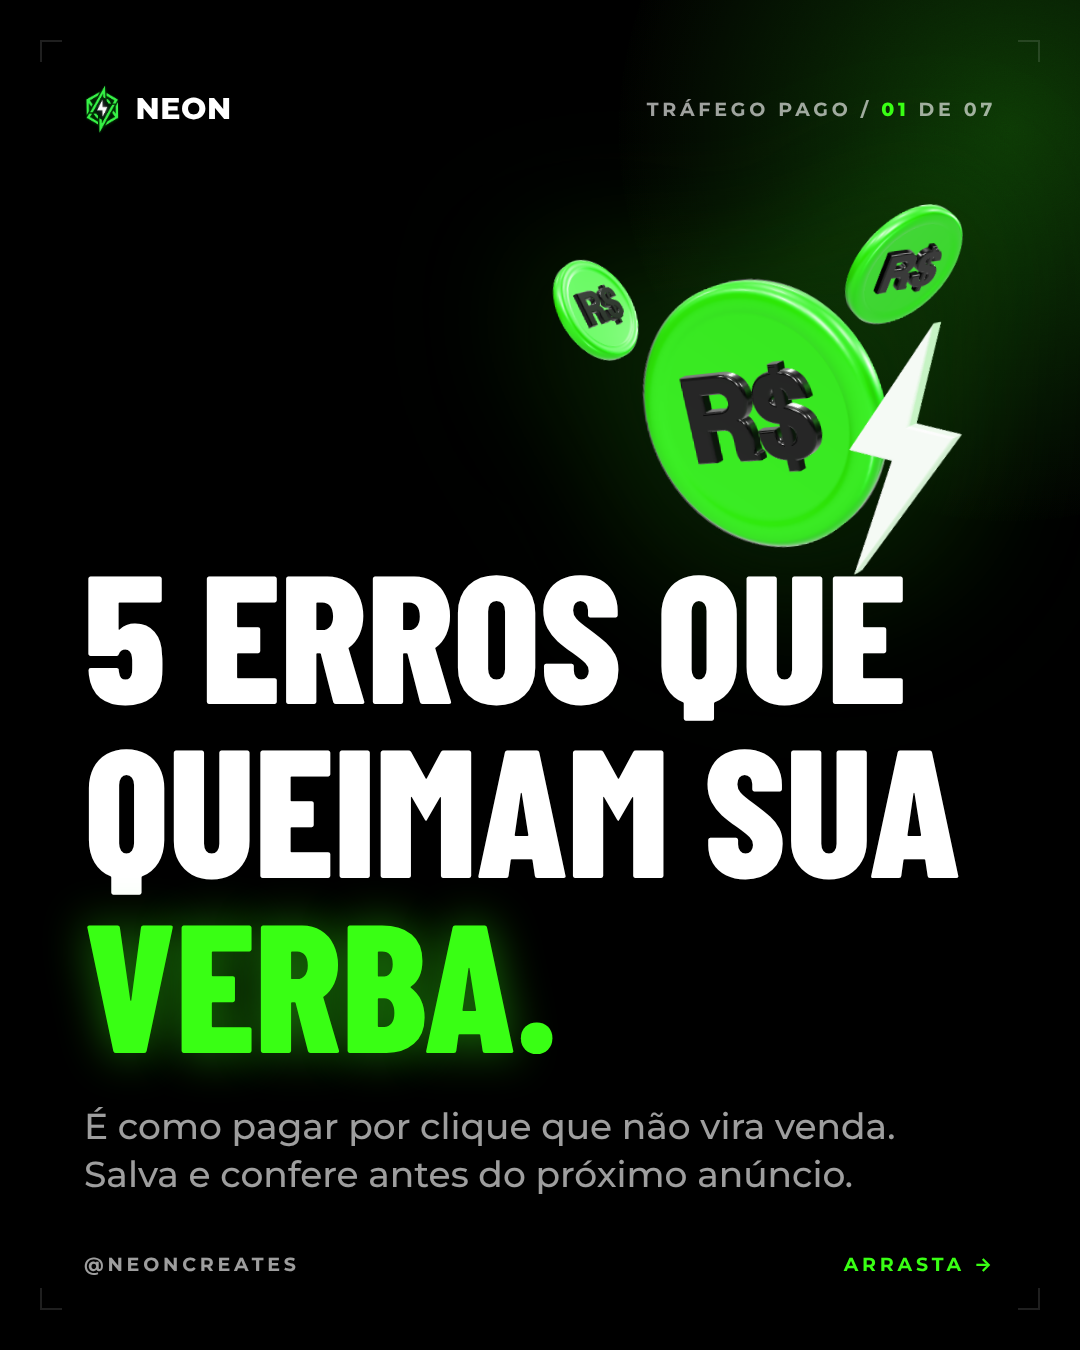
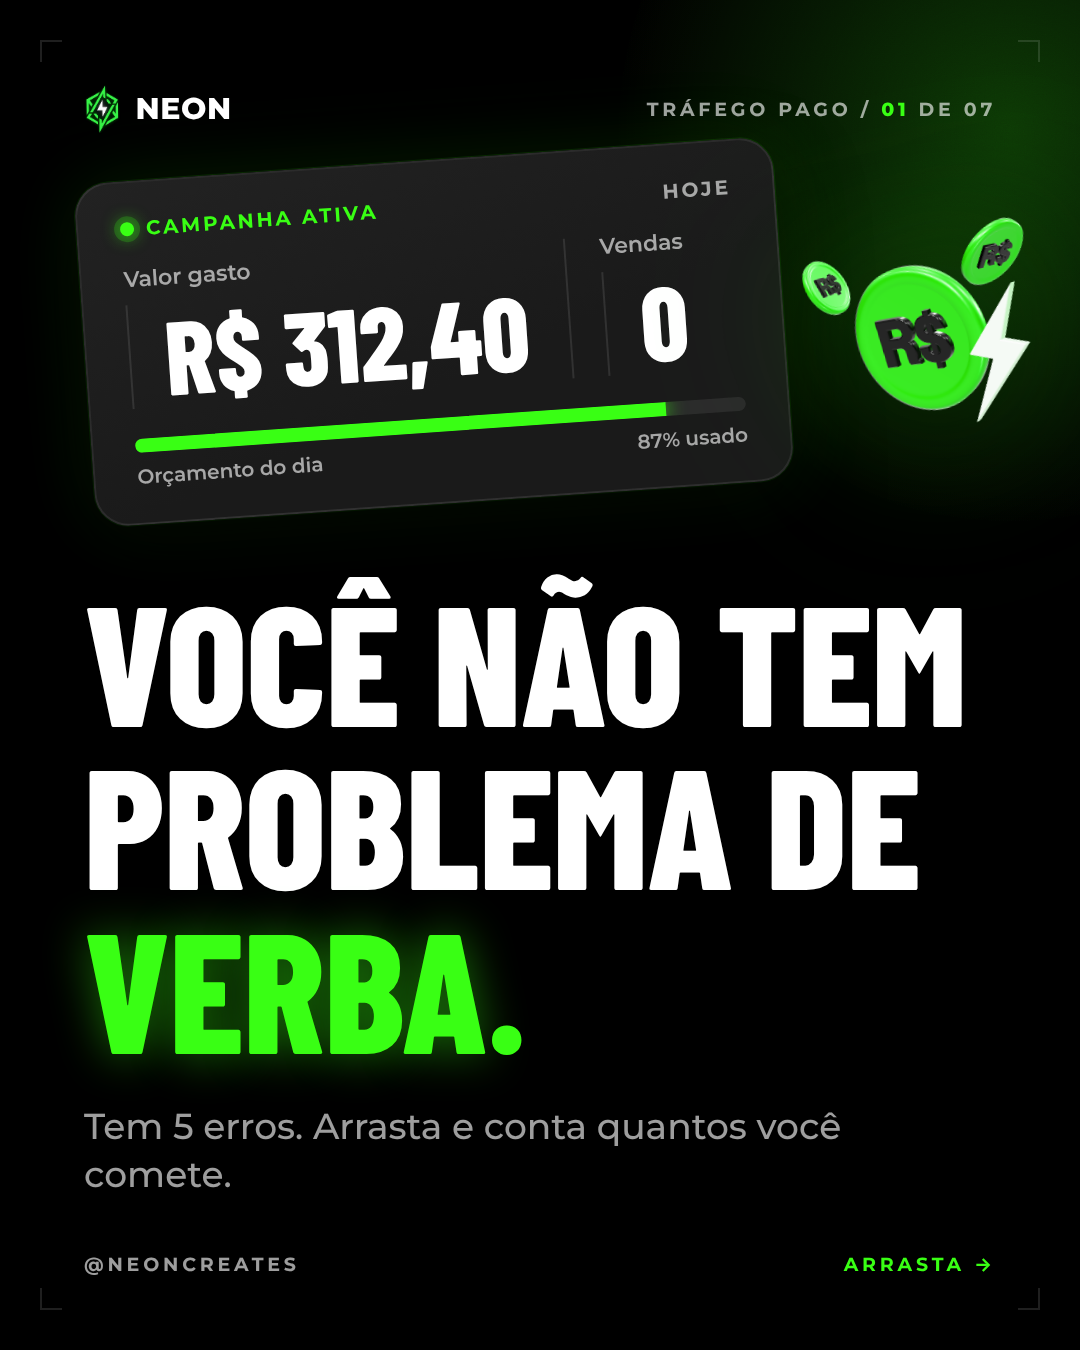
feat: capa do carrossel 5 erros com gancho e 3 variações
- capa A: contradição + painel de campanha ativa gastando sem vender
- capa B: chamada direta para quem usa o botão Impulsionar
- capa C: perda (clique que nunca compra)
- render.mjs aceita query: node render.mjs "erros?capa=b"

Claude-Session: https://claude.ai/code/session_01ANu3F8RZ7YsErKxxQ5P8MP

diff --git a/instagram/erros.html b/instagram/erros.html
@@ -6,8 +6,30 @@
 <link rel="stylesheet" href="neon.css">
 <style>
   /* capa */
-  .cover .obj3d { width: 660px; right: -30px; top: 70px; transform: rotate(-6deg); }
-  .cover h1 { font-size: 182px; }
+  .cover h1 { font-size: 170px; }
+  .cover .obj3d.coin { width: 470px; right: -10px; top: 40px; transform: rotate(-6deg); }
+
+  /* capa A: painel de anúncio queimando dinheiro */
+  .ads { position: absolute; z-index: 1; left: 84px; top: 160px; width: 700px; padding: 36px 42px 36px; border-radius: 34px;
+    background: linear-gradient(160deg, #222 0%, var(--gray) 60%); border: 2px solid rgba(255, 255, 255, .08);
+    box-shadow: 0 40px 80px rgba(0, 0, 0, .6), 0 0 0 1px rgba(57, 255, 20, .12), 0 0 80px rgba(57, 255, 20, .12); transform: rotate(-4deg); }
+  .ads .top { display: flex; justify-content: space-between; font: 700 20px/1 var(--label); letter-spacing: .14em; text-transform: uppercase; color: var(--muted); }
+  .ads .live { display: flex; align-items: center; gap: 12px; color: var(--neon); }
+  .ads .live::before { content: ""; width: 14px; height: 14px; border-radius: 50%; background: var(--neon); box-shadow: 0 0 0 6px rgba(57, 255, 20, .2), 0 0 18px var(--neon); }
+  .ads .cols { display: grid; grid-template-columns: auto 1fr; gap: 0; margin-top: 30px; }
+  .ads .cols div:first-child { padding-right: 40px; }
+  .ads .cols div + div { border-left: 2px solid rgba(255, 255, 255, .1); padding-left: 34px; }
+  .ads .k { font: 600 22px/1 var(--body); color: var(--muted); margin-bottom: 14px; }
+  .ads .v { font: 800 104px/1 var(--display); white-space: nowrap; }
+  .ads .bar { margin-top: 30px; height: 14px; border-radius: 99px; background: rgba(255, 255, 255, .08); overflow: hidden; }
+  .ads .bar i { display: block; width: 87%; height: 100%; background: var(--neon); box-shadow: 0 0 20px var(--neon); }
+  .ads .foot { display: flex; justify-content: space-between; margin-top: 14px; font: 600 20px/1 var(--body); color: var(--muted); }
+  .cover .obj3d.coin-a { width: 360px; right: -30px; top: 150px; transform: rotate(-10deg); }
+
+  /* capa B: botão impulsionar + cursor */
+  .boost { position: absolute; z-index: 1; left: 84px; top: 280px; padding: 40px 64px; border-radius: 26px; background: var(--gray);
+    border: 2px solid rgba(255, 255, 255, .1); font: 700 46px/1 var(--body); box-shadow: 0 40px 80px rgba(0, 0, 0, .6); transform: rotate(-3deg); }
+  .cover .obj3d.cursor-b { width: 420px; left: 560px; top: 330px; }
 
   /* erros */
   .erro .obj3d { width: 540px; right: 10px; top: 120px; }
@@ -60,15 +82,45 @@
     },
   ];
 
+  // três capas para testar: erros.html?capa=a (padrão), b ou c
+  const CAPAS = {
+    a: {
+      h: "Você não tem problema de *verba*.",
+      sub: "Tem 5 erros. Arrasta e conta quantos você comete.",
+      extra: `
+        <div class="ads">
+          <div class="top"><span class="live">Campanha ativa</span><span>Hoje</span></div>
+          <div class="cols">
+            <div><div class="k">Valor gasto</div><div class="v">R$ 312,40</div></div>
+            <div><div class="k">Vendas</div><div class="v">0</div></div>
+          </div>
+          <div class="bar"><i></i></div>
+          <div class="foot"><span>Orçamento do dia</span><span>87% usado</span></div>
+        </div>
+        <img class="obj3d coin-a" src="3d/coin.png" alt="">`,
+    },
+    b: {
+      h: "Usa o botão *Impulsionar*?",
+      sub: "Então arrasta. Esse é só o 1º dos 5 erros que queimam sua verba.",
+      extra: `<div class="boost">Impulsionar publicação</div><img class="obj3d cursor-b" src="3d/cursor.png" alt="">`,
+    },
+    c: {
+      h: "Seu anúncio paga *clique* que nunca vai comprar.",
+      sub: "5 erros que queimam sua verba. E como corrigir cada um.",
+      extra: `<img class="obj3d coin" src="3d/coin.png" alt="">`,
+    },
+  };
+  const capaAtual = CAPAS[new URLSearchParams(location.search).get("capa") || "a"];
+  const capa = () => slide(1, "cover", `
+      <h1>${title(capaAtual.h)}</h1>
+      <p class="sub">${fmt(capaAtual.sub)}</p>`, capaAtual.extra);
+
   const TOTAL = ERROS.length + 2;
   const slide = makeSlide("Tráfego pago", TOTAL);
   const temas = ["", "light", "", "light", ""];
 
   const slides = [
-    slide(1, "cover", `
-      <h1>${title("5 erros que queimam sua *verba*.")}</h1>
-      <p class="sub">É como pagar por clique que não vira venda. Salva e confere antes do próximo anúncio.</p>`,
-      `<img class="obj3d" src="3d/coin.png" alt="">`),
+    capa(),
 
     ...ERROS.map((e, i) => slide(i + 2, `erro ${temas[i]}`, `
       <div class="label">Erro ${pad2(i + 1)}</div>

diff --git a/instagram/semana-1.md b/instagram/semana-1.md
@@ -75,20 +75,22 @@ Quer o mesmo pro seu negócio? Comenta DIAGNÓSTICO.
 
 ## 4. Carrossel: 5 erros que queimam sua verba (7 slides, pronto)
 
-Arquivos: `instagram/out/erros/01.png` a `07.png`. Fonte: `instagram/erros.html`.
+Arquivos: `instagram/out/erros/01.png` a `07.png` (capa A).
+Capas alternativas: `out/erros-capa-b/01.png` e `out/erros-capa-c/01.png` (troque só o slide 1).
+Fonte: `instagram/erros.html` (`?capa=a`, `b` ou `c`).
 
-**Legenda:**
+**Legenda (capa A):**
 ```
-Anúncio raramente falha sozinho. Na maioria das vezes ele está pagando por um erro que vem antes dele.
+Você não tem problema de verba. Tem problema de vazamento.
 
-Os 5 que mais queimam verba:
+Os 5 erros que mais queimam dinheiro em anúncio:
 01. Impulsionar em vez de anunciar
 02. Mexer na campanha todo dia
 03. Anunciar sem página de destino
 04. Não medir o que importa
 05. Criativo sem gancho
 
-Qual desses você está cometendo agora? Responde com o número.
+Conta quantos você comete e responde aqui com o número. Sem vergonha, todo mundo já cometeu pelo menos um.
 
 Salva pra revisar antes do próximo anúncio. E se quiser que a gente olhe sua conta, comenta DIAGNÓSTICO.
 ```
